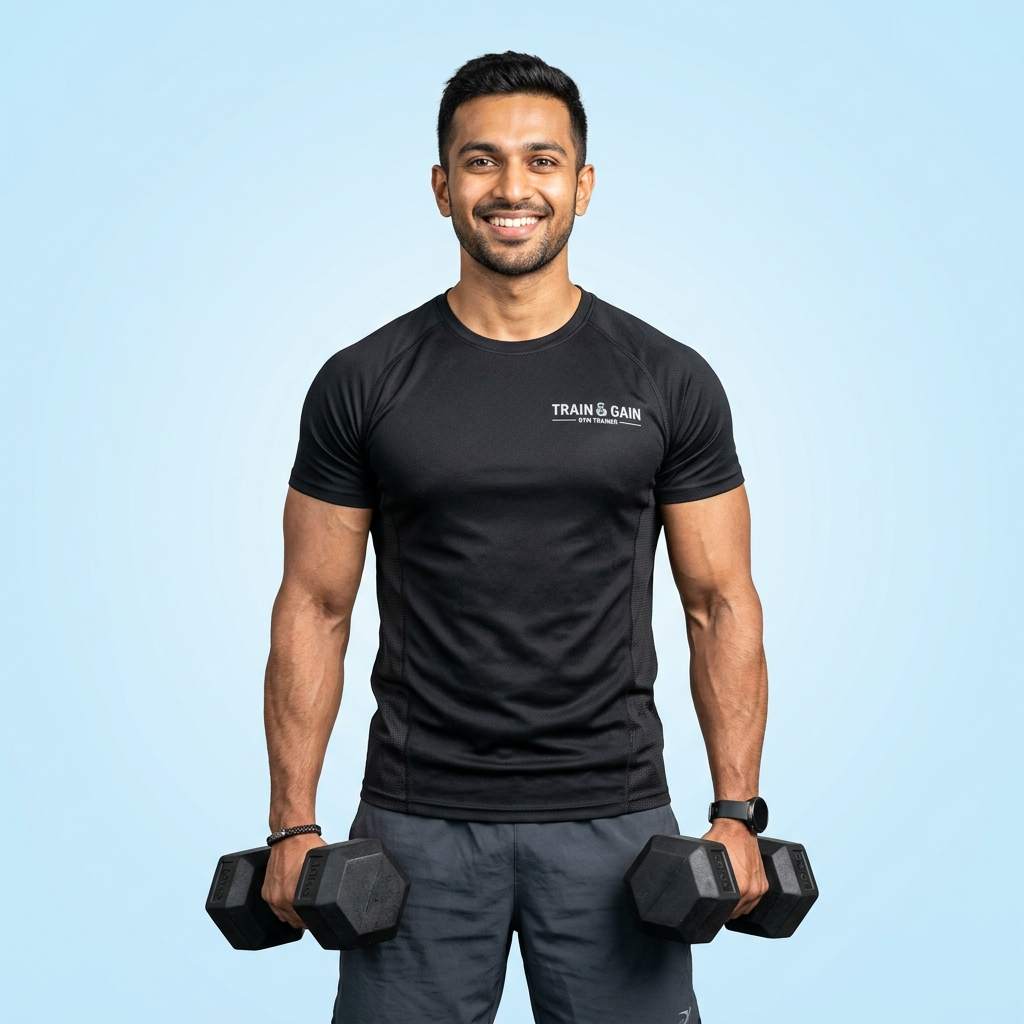
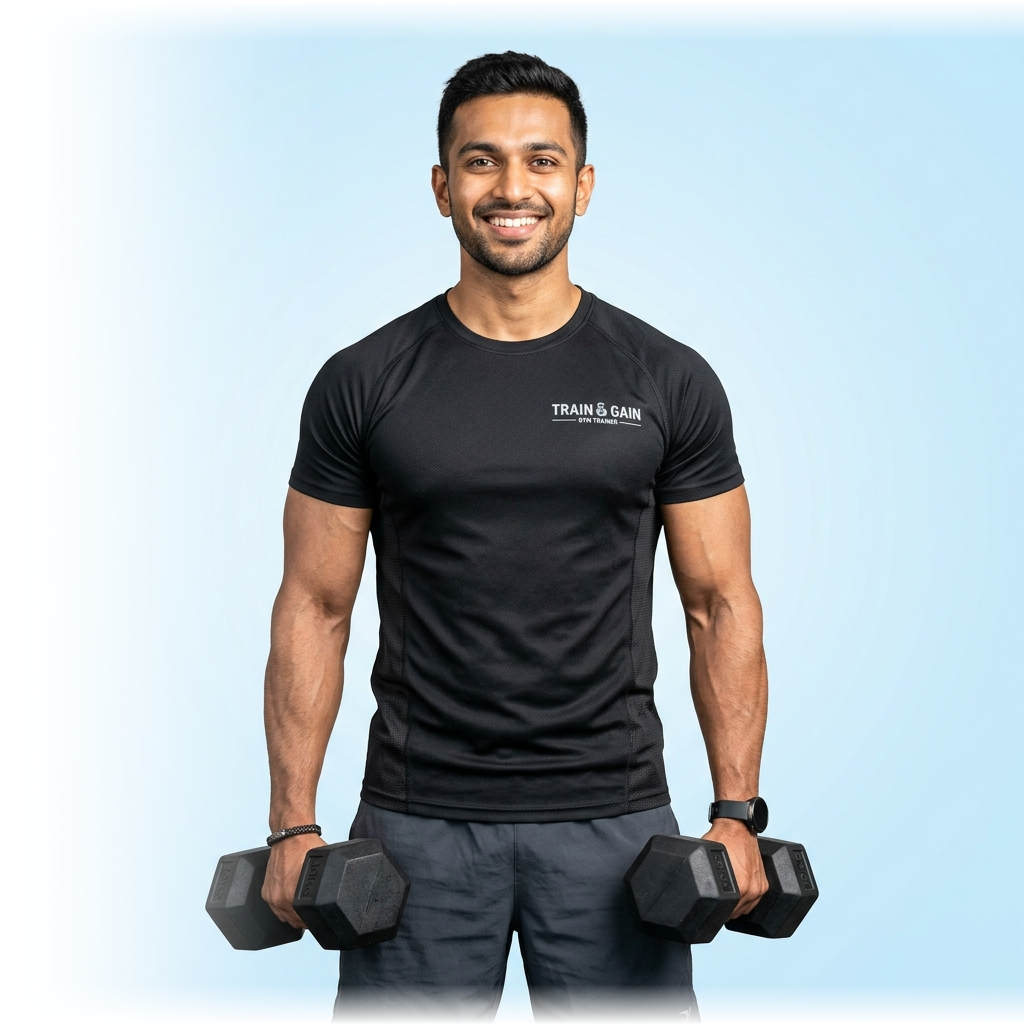
feat: add brand design system and business category assets

Changed region(s): [[0.0, 0.0, 1.0, 1.0]]

diff --git a/apps/web/src/app/globals.css b/apps/web/src/app/globals.css
@@ -1880,8 +1880,8 @@ a:hover, button:hover, .btn-primary:hover, .btn-outline:hover, .btn-pricing:hove
 
 .biz-showcase-card {
   position: relative;
-  background: #D8ECF8;
-  border: 1.5px solid #C4E0F2;
+  background: linear-gradient(135deg, #e3f2fd 0%, #c4e4f7 100%);
+  border: 1.5px solid #bce0f7;
   border-radius: 20px;
   padding: 22px 16px 22px 22px;
   display: flex;
@@ -1895,7 +1895,7 @@ a:hover, button:hover, .btn-primary:hover, .btn-outline:hover, .btn-pricing:hove
 
 .biz-showcase-card:hover {
   transform: translateY(-5px);
-  background: #D8ECF8;
+  background: linear-gradient(135deg, #d8eefe 0%, #b8e0f8 100%);
   border-color: #2E9AA6;
   box-shadow: 0 14px 36px rgba(46, 154, 166, 0.22);
 }
@@ -1912,7 +1912,7 @@ a:hover, button:hover, .btn-primary:hover, .btn-outline:hover, .btn-pricing:hove
 }
 
 .biz-showcase-img-wrap {
-  width: 52%;
+  width: 55%;
   height: 100%;
   position: absolute;
   right: 0;
@@ -1930,7 +1930,7 @@ a:hover, button:hover, .btn-primary:hover, .btn-outline:hover, .btn-pricing:hove
   height: 100%;
   object-fit: cover;
   object-position: center top;
-  mix-blend-mode: multiply;
+  mix-blend-mode: normal;
   transition: transform 0.3s cubic-bezier(0.16, 1, 0.3, 1);
 }
 
